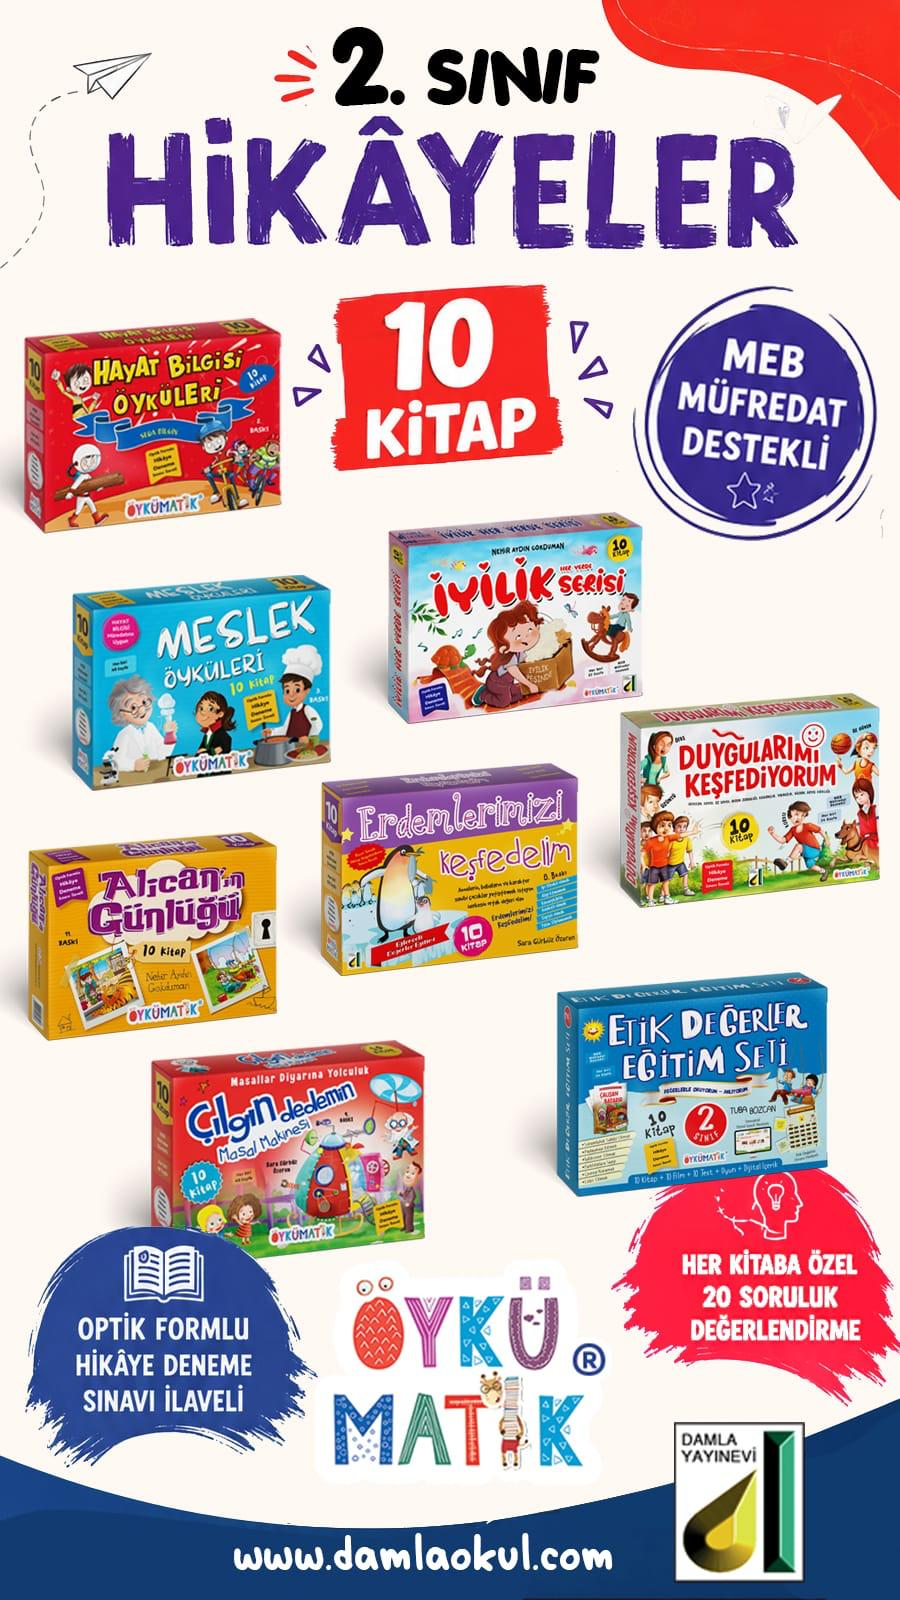
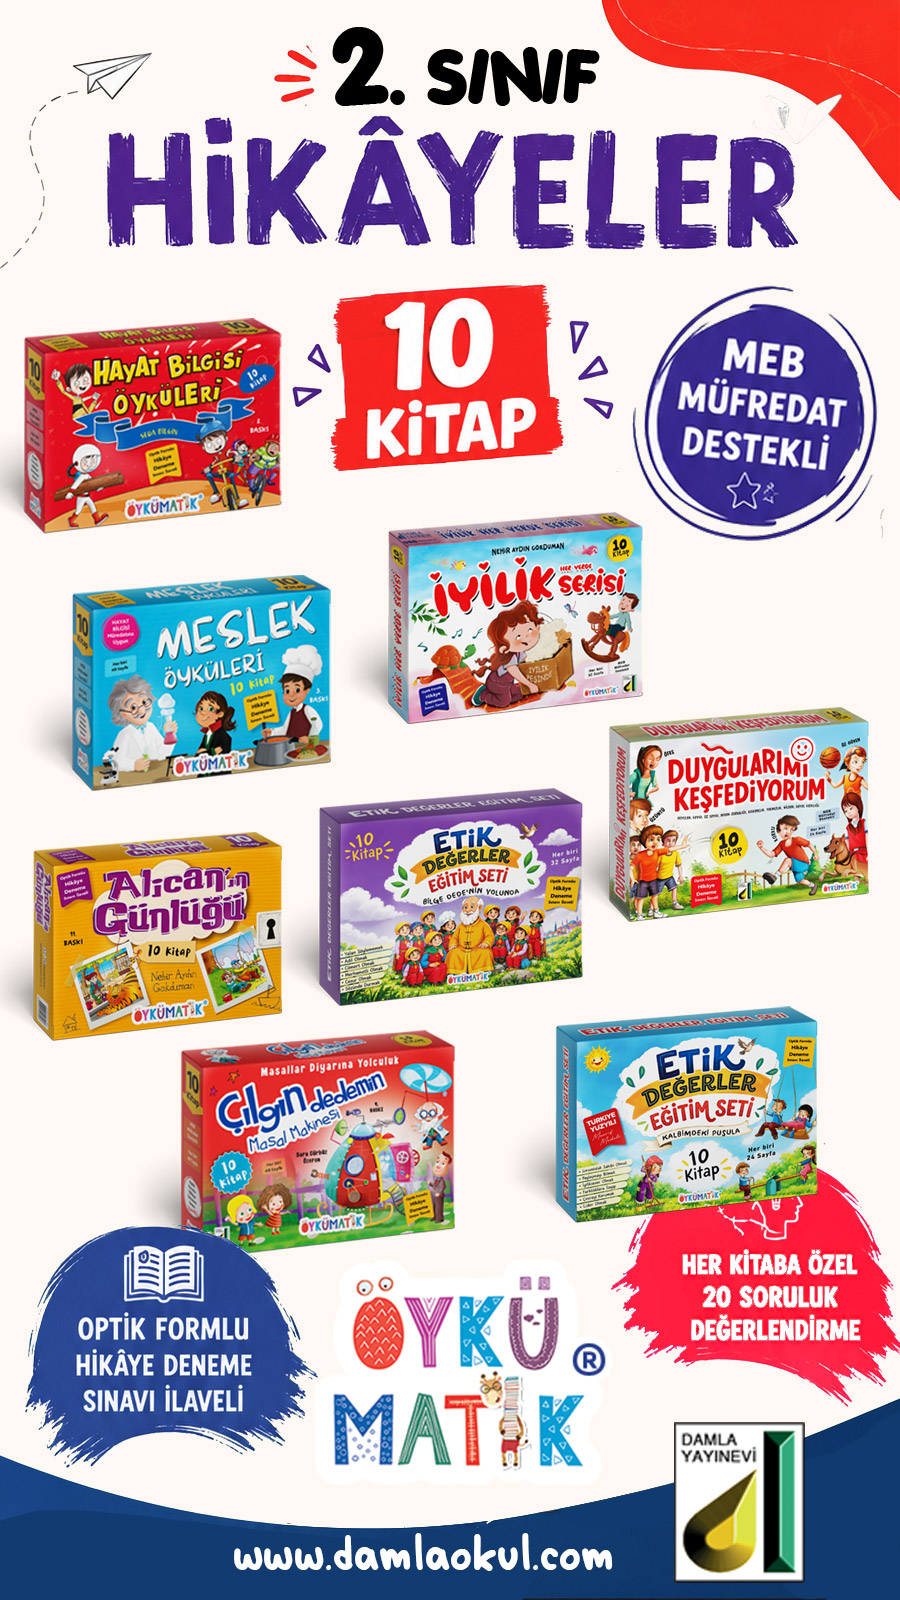
.

diff --git a/_books/etik-degerler2-kalbimdeki-pusula.md b/_books/etik-degerler2-kalbimdeki-pusula.md
@@ -1,0 +1,68 @@
+---
+layout: book
+title:  "Etik Değerler Eğitim Seti (Kalbimdeki Pusula)"
+categories: [Hikaye, İlkokul]
+
+# Standart Book Attributes
+ean: 8697911223875
+languages: [Türkçe]
+page: "Her Biri 24"
+size: "16,5x23,5 cm"
+publish-number: 1817
+cover: "Karton Kapak"
+#examlink: ""
+preview_link: "https://cdn.e-damla.com.tr/PUBLIC/ornek-sayfalar/8697911223875/index.html"
+damlaurl: ""
+paper: "1. Hamur"
+authors: ["Tuba Bozcan"]
+illustrators: ["İlknur Salman"]
+oncelik: 9  # 0: En Öncelikli 9: En az öncelikli
+
+# Spesific Filterable Attributes
+# anatema: anatemalar.json (max 3) | degerler: TYMM Erdem-Değer (max 6) | egilimler: TYMM Eğilimler (max 6) | beceriler: TYMM Beceriler (max 6) | kazanim: Öykümatik | unite: TYMM üniteleri (UI dışı)
+genre: story
+grades: [2]
+tags: ["Yalan Söylememek", "Adil Olmak", "Cömert Olmak", "Merhametli Olmak"]
+degerler: [Merhamet, Saygı, Sorumluluk, Estetik, Yardımseverlik, Duyarlılık]
+anatema: [Değerler, Duygular, Doğa]
+egilimler: [Merak, Bağımsızlık, Sorumluluk, "Kendine Güvenme (Öz Güven)", Odaklanma, Muhakeme]
+kazanim: [H.1.1.1, H.1.1.2, H.1.2.1, H.1.2.3, H.1.3.2, H.1.4.2, H.2.1.2, H.3.4.1, H.4.1.1]
+beceriler: ["İletişim Becerisi", "Kendini Tanıma (Öz Farkındalık Becerisi)", "Bilgi İşlemsel Düşünme Becerisi", "Kendini Düzenleme (Öz Düzenleme Becerisi)", "Gözleme Dayalı Tahmin Etme Becerisi", "Mevcut Bilgiye/Veriye Dayalı Tahmin Etme Becerisi"]
+unite: ["Atatürk Ve Çocuk", "Değerlerimizle Varız"]
+
+# Social Media Attributes
+youtube:
+
+# For adding excerpt add <!--more--> and break the line
+---
+Çocuklar...
+
+Üzerlerine titrediğimiz, en değerli varlıklarımız...
+
+Onları erdemli, yüksek ahlaklı, değerlerimizi bilen ve değerlerimize sahip çıkan bireyler olarak yetiştirmek hepimizin ortak amacı. Bunun da en önemli aracı hikayeler. İşte "Etik Değerler Eğitim Seti" buradan yola çıkılarak hazırlandı.
+
+"Değerler Eğitimi" temel alınarak her hikayede bir değer işlenmiş, her hikayenin sonundaki "Etkinlikler"le verilmek istenen değerin pekiştirilmesi sağlanmıştır.
+
+KİTAPLAR;
+
+1- Çalışan Başarır
+
+2- Farklı Olmak Kötü Mü?
+
+3- Kekito
+
+4- Köstebeğin Planı
+
+5- Karakulak
+
+6- Lider Kim?
+
+7- Pugi
+
+8- İyimserlik Oyunu
+
+9- Sultan Kız
+
+10- Temiz Çevre Savaşçıları
+
+<!--more-->

diff --git a/_books/derslerle-aram-cok-iyi.md b/_books/derslerle-aram-cok-iyi.md
@@ -1,0 +1,40 @@
+---
+layout: book
+title:  "Derslerle Aram Çok İyi"
+categories: [Hikaye, İlkokul]
+
+# Standart Book Attributes
+ean: 8697911224353
+languages: [Türkçe]
+page: "Her Biri 24"
+size: "16,5x23,5 cm"
+publish-number: 1817
+cover: "Karton Kapak"
+#examlink: ""
+preview_link: "https://cdn.e-damla.com.tr/PUBLIC/ornek-sayfalar/8697911223875/index.html"
+damlaurl: ""
+paper: "1. Hamur"
+authors: ["Tuba Bozcan"]
+illustrators: ["İlknur Salman"]
+oncelik: 9  # 0: En Öncelikli 9: En az öncelikli
+
+# Spesific Filterable Attributes
+# anatema: anatemalar.json (max 3) | degerler: TYMM Erdem-Değer (max 6) | egilimler: TYMM Eğilimler (max 6) | beceriler: TYMM Beceriler (max 6) | kazanim: Öykümatik | unite: TYMM üniteleri (UI dışı)
+genre: story
+grades: [2]
+tags: ["Yalan Söylememek", "Adil Olmak", "Cömert Olmak", "Merhametli Olmak"]
+degerler: [Merhamet, Saygı, Sorumluluk, Estetik, Yardımseverlik, Duyarlılık]
+anatema: [Değerler, Duygular, Doğa]
+egilimler: [Merak, Bağımsızlık, Sorumluluk, "Kendine Güvenme (Öz Güven)", Odaklanma, Muhakeme]
+kazanim: [H.1.1.1, H.1.1.2, H.1.2.1, H.1.2.3, H.1.3.2, H.1.4.2, H.2.1.2, H.3.4.1, H.4.1.1]
+beceriler: ["İletişim Becerisi", "Kendini Tanıma (Öz Farkındalık Becerisi)", "Bilgi İşlemsel Düşünme Becerisi", "Kendini Düzenleme (Öz Düzenleme Becerisi)", "Gözleme Dayalı Tahmin Etme Becerisi", "Mevcut Bilgiye/Veriye Dayalı Tahmin Etme Becerisi"]
+unite: ["Atatürk Ve Çocuk", "Değerlerimizle Varız"]
+
+# Social Media Attributes
+youtube:
+
+# For adding excerpt add <!--more--> and break the line
+---
+
+
+<!--more-->

diff --git a/_books/etik-degerler-bilge-dede.md b/_books/etik-degerler-bilge-dede.md
@@ -1,17 +1,17 @@
 ---
 layout: book
-title:  "ETİK DEĞERLER EĞİTİM SETİ-2. SINIF (10 KİTAP)"
+title:  "Etik Değerler Eğitim Seti (Bilge Dede'nin Yolu)"
 categories: [Hikaye, İlkokul]
 
 # Standart Book Attributes
-ean: 8697911223875
+ean: 8697911224391
 languages: [Türkçe]
 page: "Her Biri 24"
 size: "16,5x23,5 cm"
 publish-number: 1817
 cover: "Karton Kapak"
-examlink: "https://cdn.e-damla.com.tr/PUBLIC/hds_pdf/y/etik-degerler2-y.pdf"
-preview_link: "https://cdn.e-damla.com.tr/PUBLIC/ornek-sayfalar/8697911223875/index.html"
+#examlink: ""
+preview_link: "https://cdn.e-damla.com.tr/PUBLIC/ornek-sayfalar/8697911224391/index.html"
 damlaurl: ""
 paper: "1. Hamur"
 authors: ["Tuba Bozcan"]

diff --git a/_books/milli-mücadele-destanı.md b/_books/milli-mücadele-destanı.md
@@ -1,16 +1,16 @@
 ---
 layout: book
-title:  "İstiklal Marşı Yazdıran Kahramanlar (10 Kitap)"
+title:  "Milli Mücadele Destanı"
 categories: [Hikaye, İlkokul]
 
 # Standart Book Attributes
-ean: 9786254112560
+ean: 8697911224339
 languages: [Türkçe]
 page: "Her Biri 64"
 size: "13,5x19,5 cm"
 publish-number: 2972
 cover: "Karton Kapak"
-examlink: "https://cdn.e-damla.com.tr/PUBLIC/hds_pdf/y/istiklal-marsi-yazdiran-y.pdf"
+#examlink: ""
 preview_link: "https://cdn.e-damla.com.tr/PUBLIC/ornek-sayfalar/9786254112560/index.html"
 damlaurl: ""
 paper: "Kitap Kağıdı"

diff --git a/_bundles/2-sinif-hikayeler.md b/_bundles/2-sinif-hikayeler.md
@@ -8,10 +8,10 @@ eans:
   - 8697911222991
   - 869791122418
   - 8697911223028
-  - 9786053831181
   - 8697911223752
   - 8697911223950
   - 8697911223875
+  - 8697911224391
 
 ## grades: [2]
 oncelik: 0

diff --git a/_bundles/3-sinif-hikayeler.md b/_bundles/3-sinif-hikayeler.md
@@ -10,8 +10,10 @@ eans:
   - 8697911223066
   - 8697911223943
   - 8697911223493
-  - 9786254113345
   - 8697911223530
+  - 8697911224391
+  - 8697911224339
+  
   
 ## grades: [3]
 oncelik: 0

diff --git a/_bundles/4-sinif-hikayeler.md b/_bundles/4-sinif-hikayeler.md
@@ -8,6 +8,8 @@ eans:
   - 8697911223974
   - 9786053834458
   - 8697911223516
+  - 8697911224339
+  - 8697911224353
   
 ## grades: [2]
 oncelik: 0
